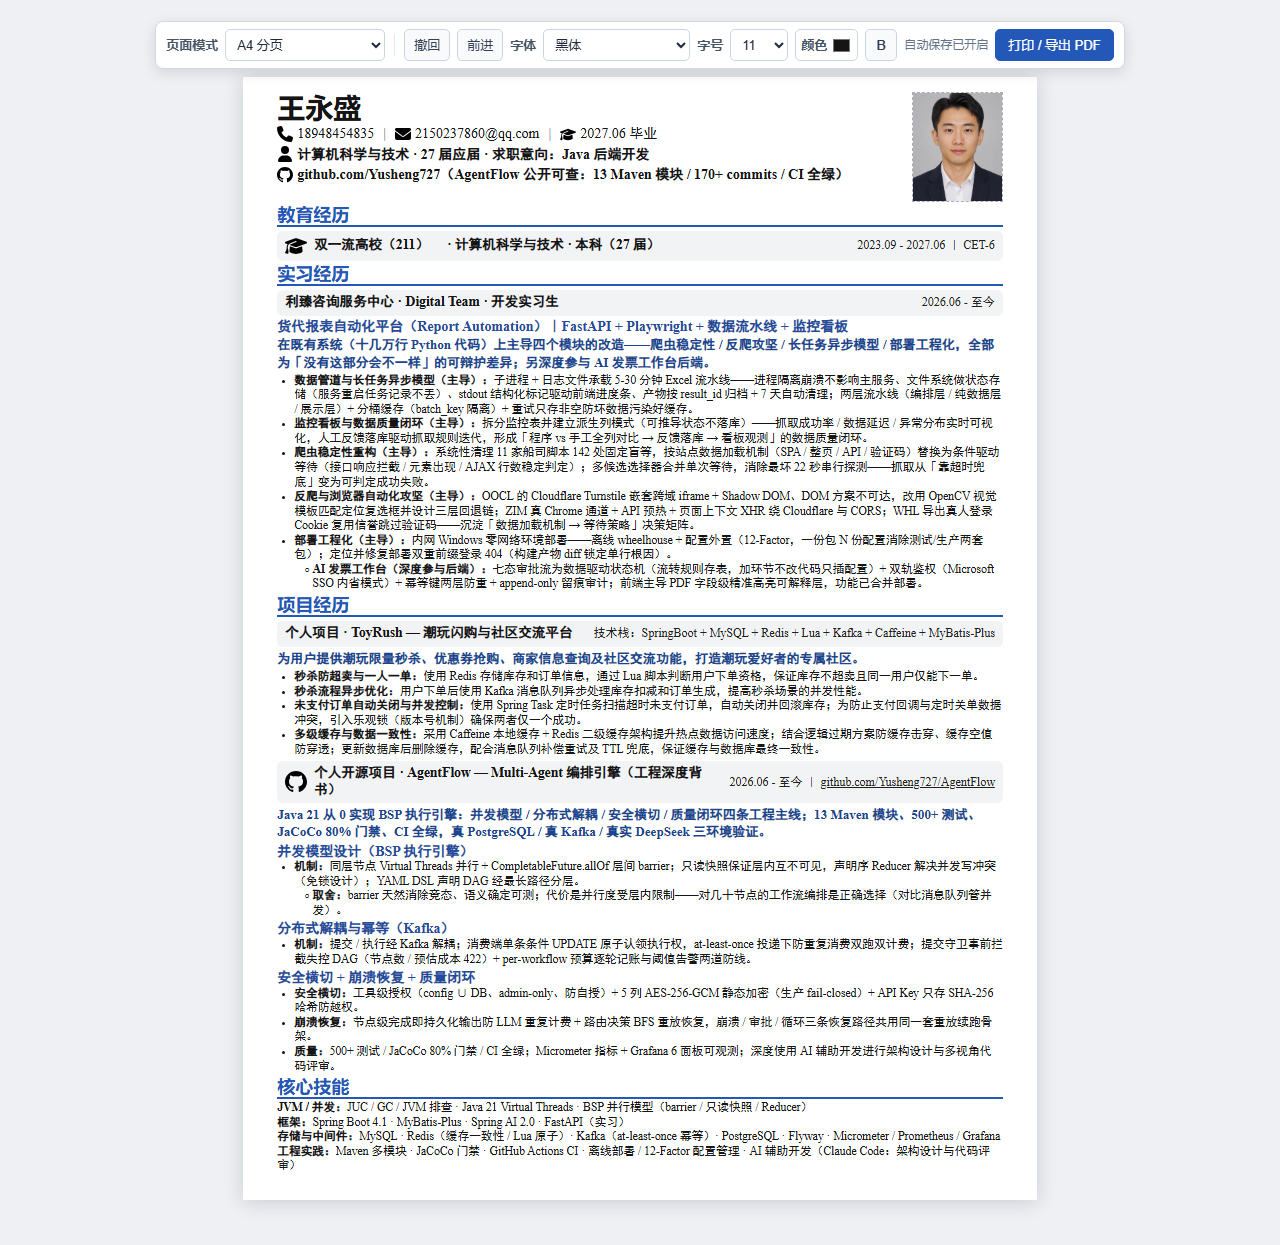
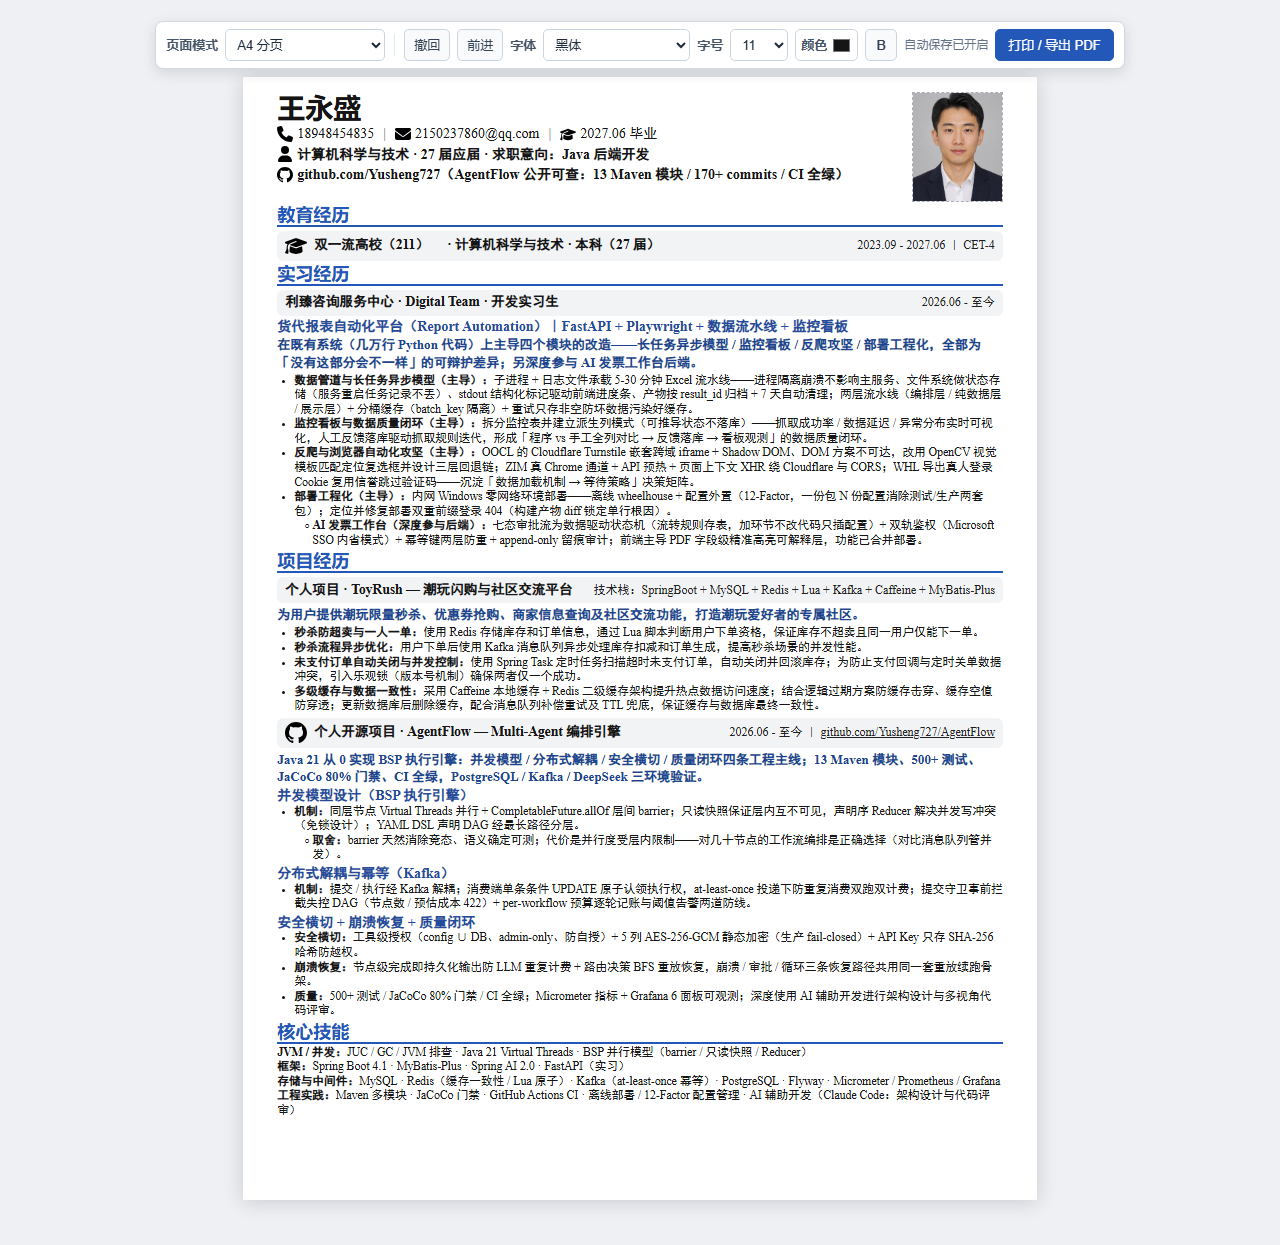
docs(resume): B 版实习删爬虫 bullet 后口径全链路同步

Changed region(s): [[0.2188, 0.3357, 0.7812, 0.9462], [0.2188, 0.2747, 0.7812, 0.3052]]

diff --git a/docs/resumes/B-backend.html b/docs/resumes/B-backend.html
@@ -139,7 +139,7 @@
       <div class="company">
         <img class="company-logo" src="../career-research/resume/agentflow-resume/icons/graduation-cap.svg" alt="教育图标">
         <div class="company-name education-name">双一流高校（211）<span class="education-major">· 计算机科学与技术 · 本科（27 届）</span></div>
-        <div class="company-meta">2023.09 - 2027.06 ｜ CET-6</div>
+        <div class="company-meta">2023.09 - 2027.06 ｜ CET-4</div>
       </div>
     </section>
 
@@ -151,11 +151,10 @@
       </div>
       <article class="project">
         <div class="project-title">货代报表自动化平台（Report Automation）｜FastAPI + Playwright + 数据流水线 + 监控看板</div>
-        <div class="lead">在既有系统（十几万行 Python 代码）上主导四个模块的改造——爬虫稳定性 / 反爬攻坚 / 长任务异步模型 / 部署工程化，全部为「没有这部分会不一样」的可辩护差异；另深度参与 AI 发票工作台后端。</div>
+        <div class="lead">在既有系统（几万行 Python 代码）上主导四个模块的改造——长任务异步模型 / 监控看板 / 反爬攻坚 / 部署工程化，全部为「没有这部分会不一样」的可辩护差异；另深度参与 AI 发票工作台后端。</div>
         <ul>
           <li><strong>数据管道与长任务异步模型（主导）：</strong>子进程 + 日志文件承载 5-30 分钟 Excel 流水线——进程隔离崩溃不影响主服务、文件系统做状态存储（服务重启任务记录不丢）、stdout 结构化标记驱动前端进度条、产物按 result_id 归档 + 7 天自动清理；两层流水线（编排层 / 纯数据层 / 展示层）+ 分桶缓存（batch_key 隔离）+ 重试只存非空防坏数据污染好缓存。</li>
           <li><strong>监控看板与数据质量闭环（主导）：</strong>拆分监控表并建立派生列模式（可推导状态不落库）——抓取成功率 / 数据延迟 / 异常分布实时可视化，人工反馈落库驱动抓取规则迭代，形成「程序 vs 手工全列对比 → 反馈落库 → 看板观测」的数据质量闭环。</li>
-          <li><strong>爬虫稳定性重构（主导）：</strong>系统性清理 11 家船司脚本 142 处固定盲等，按站点数据加载机制（SPA / 整页 / API / 验证码）替换为条件驱动等待（接口响应拦截 / 元素出现 / AJAX 行数稳定判定）；多候选选择器合并单次等待，消除最坏 22 秒串行探测——抓取从「靠超时兜底」变为可判定成功失败。</li>
           <li><strong>反爬与浏览器自动化攻坚（主导）：</strong>OOCL 的 Cloudflare Turnstile 嵌套跨域 iframe + Shadow DOM、DOM 方案不可达，改用 OpenCV 视觉模板匹配定位复选框并设计三层回退链；ZIM 真 Chrome 通道 + API 预热 + 页面上下文 XHR 绕 Cloudflare 与 CORS；WHL 导出真人登录 Cookie 复用信誉跳过验证码——沉淀「数据加载机制 → 等待策略」决策矩阵。</li>
           <li><strong>部署工程化（主导）：</strong>内网 Windows 零网络环境部署——离线 wheelhouse + 配置外置（12-Factor，一份包 N 份配置消除测试/生产两套包）；定位并修复部署双重前缀登录 404（构建产物 diff 锁定单行根因）。</li>
           <li class="nested"><strong>AI 发票工作台（深度参与后端）：</strong>七态审批流为数据驱动状态机（流转规则存表，加环节不改代码只插配置）+ 双轨鉴权（Microsoft SSO 内省模式）+ 幂等键两层防重 + append-only 留痕审计；前端主导 PDF 字段级精准高亮可解释层，功能已合并部署。</li>
@@ -178,10 +177,10 @@
       </ul>
       <div class="company">
         <img class="company-logo" src="../career-research/resume/agentflow-resume/logos/github.svg" alt="GitHub Logo">
-        <div class="company-name">个人开源项目 · AgentFlow — Multi-Agent 编排引擎（工程深度背书）</div>
+        <div class="company-name">个人开源项目 · AgentFlow — Multi-Agent 编排引擎</div>
         <div class="company-meta">2026.06 - 至今 ｜ <a href="https://github.com/Yusheng727/AgentFlow" style="color:inherit;">github.com/Yusheng727/AgentFlow</a></div>
       </div>
-      <div class="lead">Java 21 从 0 实现 BSP 执行引擎：并发模型 / 分布式解耦 / 安全横切 / 质量闭环四条工程主线；13 Maven 模块、500+ 测试、JaCoCo 80% 门禁、CI 全绿，真 PostgreSQL / 真 Kafka / 真实 DeepSeek 三环境验证。</div>
+      <div class="lead">Java 21 从 0 实现 BSP 执行引擎：并发模型 / 分布式解耦 / 安全横切 / 质量闭环四条工程主线；13 Maven 模块、500+ 测试、JaCoCo 80% 门禁、CI 全绿，PostgreSQL / Kafka / DeepSeek 三环境验证。</div>
       <article class="project">
         <div class="project-title">并发模型设计（BSP 执行引擎）</div>
         <ul>

diff --git a/docs/resumes/shell-a-agent.html b/docs/resumes/shell-a-agent.html
@@ -43,7 +43,7 @@
       </section>
       <section class="resume-section"><h2 class="section-title"><span>教育背景</span></h2>
         <article class="entry"><div class="entry-head"><span class="date">2023.09–2027.06</span><strong class="org">双一流高校（211）</strong><strong class="role">计算机科学与技术 本科</strong></div>
-          <ul class="bullet-list"><li>27 届应届（2027 年 6 月毕业）；英语 CET-6</li></ul>
+          <ul class="bullet-list"><li>27 届应届（2027 年 6 月毕业）；英语 CET-4</li></ul>
         </article>
       </section>
       <section class="resume-section"><h2 class="section-title"><span>校园与荣誉</span></h2>

diff --git a/docs/resumes/shell-b-backend.html b/docs/resumes/shell-b-backend.html
@@ -50,7 +50,7 @@
       </section>
       <section class="resume-section"><h2 class="section-title"><span>教育背景</span></h2>
         <article class="entry"><div class="entry-head"><span class="date">2023.09–2027.06</span><strong class="org">双一流高校（211）</strong><strong class="role">计算机科学与技术</strong></div>
-          <ul class="bullet-list"><li>27 届应届；CET-6</li></ul>
+          <ul class="bullet-list"><li>27 届应届；CET-4</li></ul>
         </article>
       </section>
     </div>

diff --git a/docs/resumes/A-agent.html b/docs/resumes/A-agent.html
@@ -139,7 +139,7 @@
       <div class="company">
         <img class="company-logo" src="../career-research/resume/agentflow-resume/icons/graduation-cap.svg" alt="教育图标">
         <div class="company-name education-name">双一流高校（211）<span class="education-major">· 计算机科学与技术 · 本科（27 届）</span></div>
-        <div class="company-meta">2023.09 - 2027.06 ｜ CET-6</div>
+        <div class="company-meta">2023.09 - 2027.06 ｜ CET-4</div>
       </div>
     </section>
 

diff --git a/docs/career-research/05-internship-report-automation.md b/docs/career-research/05-internship-report-automation.md
@@ -10,7 +10,7 @@
 - **公司/部门**：利臻咨询服务中心 · Digital Team（2026-08-28 用户确认）
 - 客户/服务对象：Meiyume（美雅益，美妆供应链集团）Sourcing 团队
 - 技术栈：Python 3.x ｜ FastAPI + Pydantic ｜ Playwright（14 家船司爬虫）｜ pandas + openpyxl ｜ SQLite ｜ Vue 3 + Vite（前端）｜ n8n（工作流自动化）
-- 系统规模：十几万行代码（接手时）；11–14 家船司网站爬虫；6 步 Excel 流水线；两个报告产品线（MYM 运输状态报告 / XTS 在途报告）+ F&A AI 工作台
+- 系统规模：几万行代码（接手时）；11–14 家船司网站爬虫；6 步 Excel 流水线；两个报告产品线（MYM 运输状态报告 / XTS 在途报告）+ F&A AI 工作台
 - 业务价值：把 SOP 里「每两周人工往返 11+ 船司网站查船期/箱状态、手工填 Excel Macro」压缩为「上传文件 → 自动查询回填 → 下载报告」
 - 实习时间：2026.06–至今（在职），个人分支 `yusheng/feat-*`（feat-ticket-pdf 等）
 
@@ -18,7 +18,7 @@
 
 | 内容 | 层级 | 证据 |
 |---|---|---|
-| 系统整体架构（6 步流水线/三层分离/FastAPI 骨架） | **既有系统（接手）**，全功能辅助开发参与 | 日记「接手十几万行代码」 |
+| 系统整体架构（6 步流水线/三层分离/FastAPI 骨架） | **既有系统（接手）**，全功能辅助开发参与 | 日记「接手几万行代码」 |
 | **爬虫等待机制优化（142 处盲等清理）** | 🟢 主导 | 实习记录 1.2 节（45 条记录） |
 | **反爬攻坚（ZIM/OOCL/WHL/ONE/COSCO/CMA）** | 🟢 主导 | 实习记录 1.4 节 + oocl-cloudflare-turnstile-bypass.md（commit 93673fa） |
 | **n8n × SharePoint 自动化（部门内首次打通，POC 双向验证）** | 🟢 主导 | N8N_SHAREPOINT_INTEGRATION.md（作者署名） |
@@ -79,7 +79,7 @@
 
 | 追问 | 答案锚点 | 风险 |
 |---|---|---|
-| 「系统是你搭建的吗？」 | 如实答：接手存量系统（十几万行），全功能辅助开发参与，主导四块（爬虫优化/反爬/部署/长任务）+ 前端模块——**主动分层比被戳穿强** | 低（已预演） |
+| 「系统是你搭建的吗？」 | 如实答：接手存量系统（几万行），全功能辅助开发参与，主导四块（爬虫优化/反爬/部署/长任务）+ 前端模块——**主动分层比被戳穿强** | 低（已预演） |
 | 「监控看板是你做的吗？」 | 同事主导、本人辅助参与——我了解其设计（拆表/派生列模式）并能讲出为什么；我的对应主导产出是前端与长任务模型 | 低（分层已定） |
 | 「优化效果多少？」 | 无精确压测数字（定性：EMC 多候选最坏 22s → 单次等待 8s 内；CMA 加延时后不再封 IP）——口径如账本，不编百分比 | 中：需背熟定性口径 |
 | 「OOCL 方案是你想的吗？」 | 视觉方案为主导实现（commit 93673fa 落地），参考 Kameleo 开源思路再适配——亮暗双模板 + 三层回退是站点适配增量 | 低 |

diff --git a/docs/career-research/导学-ReportAutomation.md b/docs/career-research/导学-ReportAutomation.md
@@ -47,7 +47,7 @@
 - [ ] 能说出纯数据层的 import 约束（不 import openpyxl）带来的两个收益（机器可查边界 + 可独立单测）
 - [ ] 能讲配置外置如何消灭「测试/生产两套包」（12-Factor：一份包 N 份配置）
 - [ ] 能区分委托权限与应用权限（无管理员 → Delegated + offline_access 续期）
-- [ ] 能诚实分层：系统是接手的十几万行存量，我主导四块半（爬虫优化/反爬/长任务/部署/n8n），XTS/监控辅助参与
+- [ ] 能诚实分层：系统是接手的几万行存量，我主导四块半（爬虫优化/反爬/长任务/部署/n8n），XTS/监控辅助参与
 
 ## 4. 推荐阅读（结合素材档案）
 
